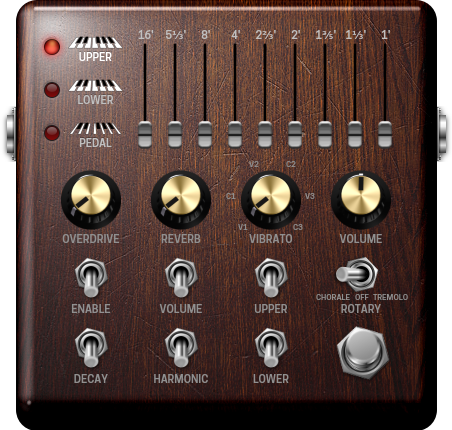
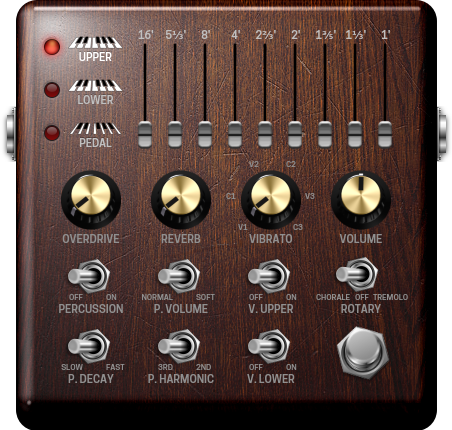
Polish the gui

diff --git a/modgui/style.css b/modgui/style.css
@@ -165,7 +165,7 @@
 }
 
 #mod-pedal-{{{cns}}} .mod-control-group .mod-knob.rotary_speed_preset .mod-knob-image {
-    background-image: url(/resources/pedals/toggle-3-states.png{{{ns}}});
+    background-image: url(/resources/pedals/h-toggle-3-states.png{{{ns}}});
     background-repeat: no-repeat;
     background-size: auto 44px;
     height: 44px;
@@ -318,13 +318,16 @@
 /* = Toggle
 ================================================ */
 #mod-pedal-{{{cns}}} .mod-toggle {
-    background-image: url(/resources/pedals/toggle.png{{{ns}}});
+    position: absolute;
+	background-image: url(/resources/pedals/h-toggle.png{{{ns}}});
     background-position: bottom center;
     background-repeat: no-repeat;
-    background-size: auto 120px;
+    background-size: auto 88px;
     cursor: pointer;
-    height: 60px;
-    width: 43px;
+    top: 10px;
+    left: 10px;
+    height: 44px;
+    width: 64px;
     margin: 4px auto 0 auto;
 }
 
@@ -349,7 +352,19 @@
 #mod-pedal-{{{cns}}} .vibrato_lower       { top: 290px ; left: 195px; }
 #mod-pedal-{{{cns}}} .rotary_speed_preset { top: 220px ; left: 285px; }
 
-#mod-pedal-{{{cns}}} .knob-scalepoints.rotary_speed_preset { top: 220px ; left: 285px; }
+#mod-pedal-{{{cns}}} .knob-scalepoints.two-values .value-0 {
+	top: 73px ;
+	left: -28px;
+	text-align: right;
+	width: 100%;
+}
+#mod-pedal-{{{cns}}} .knob-scalepoints.two-values .value-1 {
+	top: 73px ;
+	left: 75px;
+	text-align: left;
+	width: 100%;
+}
+
 #mod-pedal-{{{cns}}} .knob-scalepoints.rotary_speed_preset .value-0 { top: 73px ; left: 15px; }
 #mod-pedal-{{{cns}}} .knob-scalepoints.rotary_speed_preset .value-1 { top: 73px ; left: 54px; }
 #mod-pedal-{{{cns}}} .knob-scalepoints.rotary_speed_preset .value-2 { top: 73px ; left: 72px; }

diff --git a/modgui/gui.html b/modgui/gui.html
@@ -26,6 +26,36 @@
         <span class="knob-value value-5">C3</span>
     </div>
 
+    <div class="knob-scalepoints two-values percussion_enable">
+        <span class="knob-value value-0">Off</span>
+        <span class="knob-value value-1">On</span>
+    </div>
+
+    <div class="knob-scalepoints two-values vibrato_upper">
+        <span class="knob-value value-0">Off</span>
+        <span class="knob-value value-1">On</span>
+    </div>
+
+    <div class="knob-scalepoints two-values vibrato_lower">
+        <span class="knob-value value-0">Off</span>
+        <span class="knob-value value-1">On</span>
+    </div>
+
+    <div class="knob-scalepoints two-values percussion_volume">
+        <span class="knob-value value-0">Normal</span>
+        <span class="knob-value value-1">Soft</span>
+    </div>
+
+    <div class="knob-scalepoints two-values percussion_decay">
+        <span class="knob-value value-0">Slow</span>
+        <span class="knob-value value-1">Fast</span>
+    </div>
+
+    <div class="knob-scalepoints two-values percussion_harmonic">
+        <span class="knob-value value-0">3rd</span>
+        <span class="knob-value value-1">2nd</span>
+    </div>
+
     <div id="control-{{{cns}}}" class="mod-control-group clearfix">
         <div class="drawbar-group">
             {{#controls.0}}
